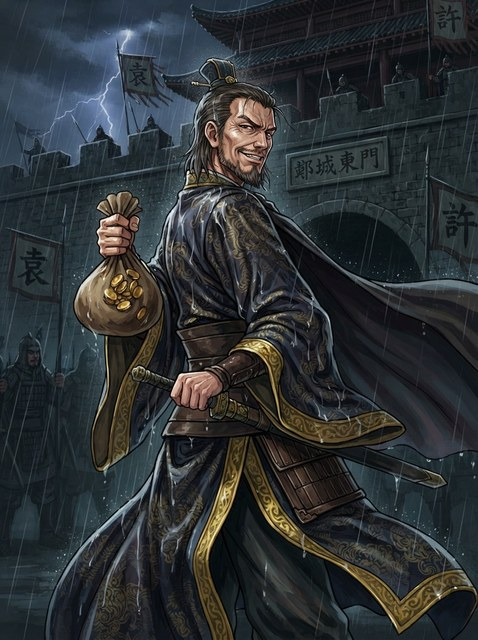
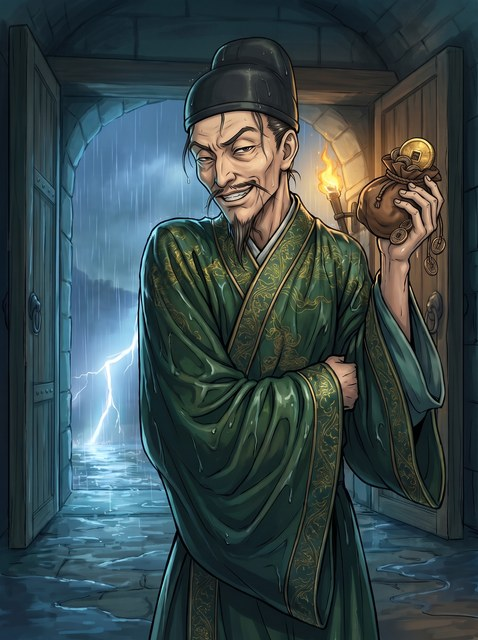
许攸立绘重画：瘦长脸文士，去掉剑和假字
Claude-Session: https://claude.ai/code/session_016SRjkeWgPKfsGMYrrvzJQf

diff --git a/pics/ART-LOG.md b/pics/ART-LOG.md
@@ -1496,3 +1496,4 @@
 - [x] 2026-11-08 map `luoyang_s` ← luoyang_s_strip.jpg · 强制：太小 8192×457（至少高 480）
 - [x] 2026-11-08 map `beifa` ← beifa_strip.jpg · ok
 - [x] 2026-11-08 map `chibi` ← chibi_strip.jpg · ok
+- [ ] 2026-11-08 portrait `xuyou` ← xuyou_new2.jpg · ok
